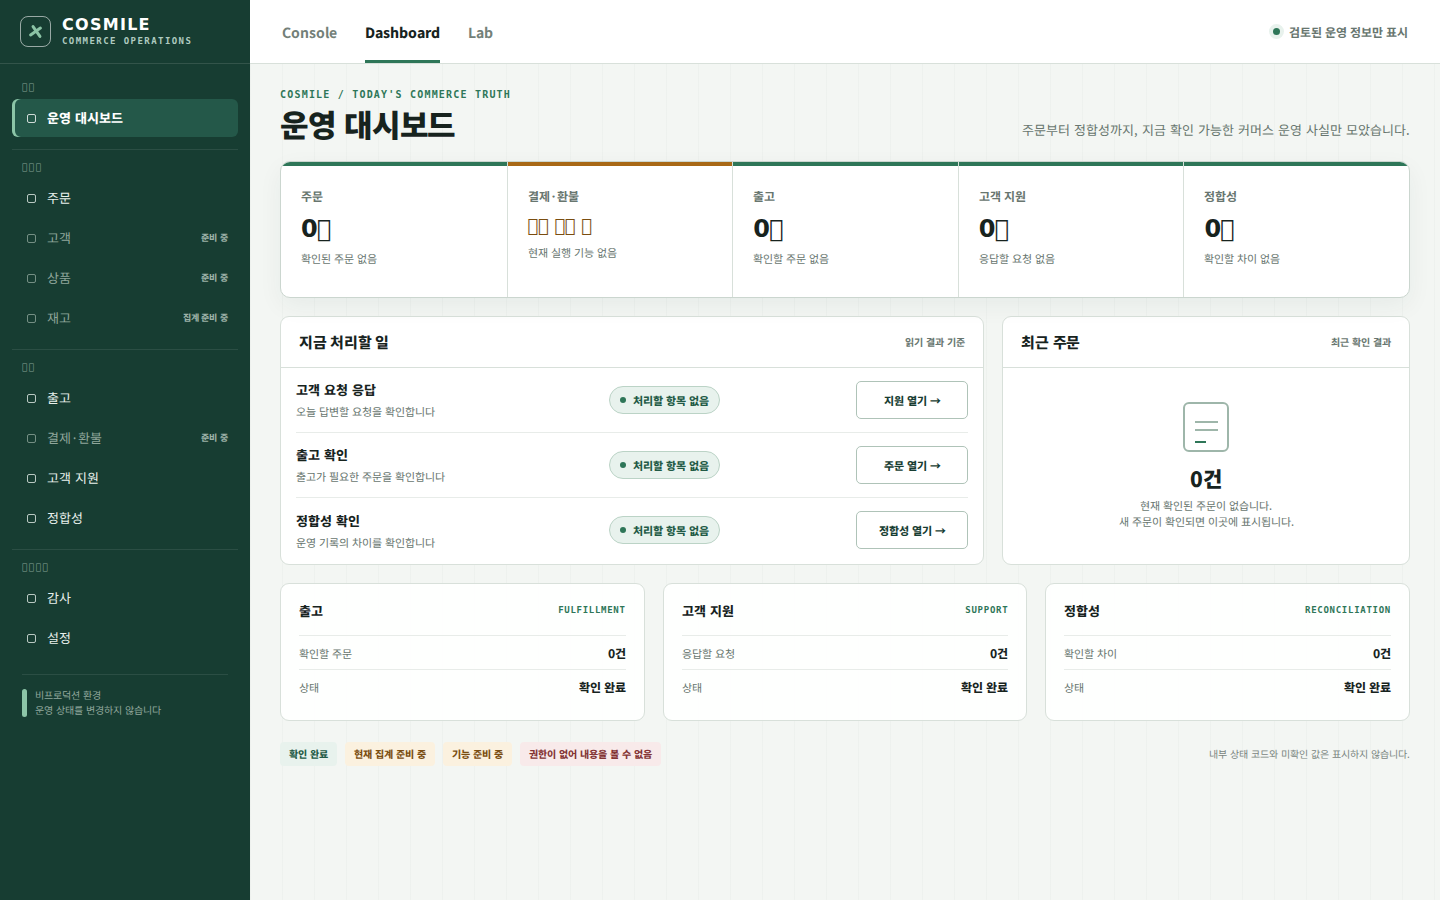
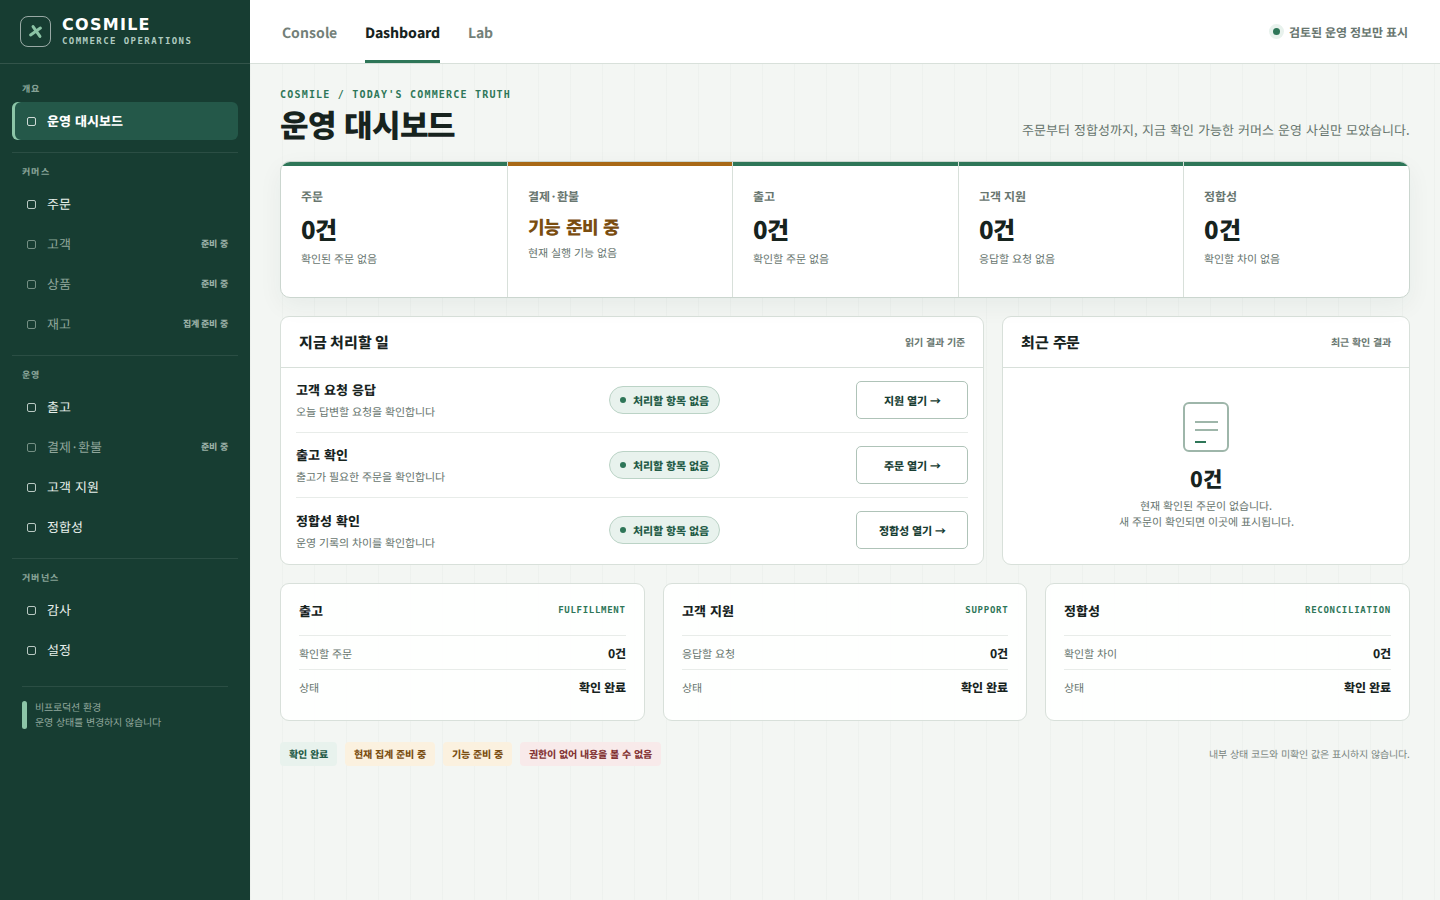
docs(cosmile): fix Korean glyphs in dashboard visual

diff --git a/advisor/jobs/COSMILE_CORE_OPERATIONS_DASHBOARD_V1/108_DESIGNER_DASHBOARD_VISUAL_CANDIDATE.html b/advisor/jobs/COSMILE_CORE_OPERATIONS_DASHBOARD_V1/108_DESIGNER_DASHBOARD_VISUAL_CANDIDATE.html
@@ -1,5 +1,5 @@
 <!doctype html>
-<html lang="ko">
+<html lang="ko" class="fonts-loading">
 <head>
   <meta charset="utf-8">
   <meta name="viewport" content="width=device-width, initial-scale=1">
@@ -38,8 +38,16 @@
       overflow: hidden;
       color: var(--ink);
       background: var(--canvas);
-      font-family: "Pretendard", "Noto Sans KR", "Apple SD Gothic Neo", system-ui, sans-serif;
+      font-family: "Noto Sans KR", "Pretendard", "Apple SD Gothic Neo", system-ui, sans-serif;
       -webkit-font-smoothing: antialiased;
+    }
+
+    html.fonts-loading body {
+      visibility: hidden;
+    }
+
+    html.fonts-ready body {
+      visibility: visible;
     }
 
     body {
@@ -218,7 +226,7 @@
     .nav-group-title {
       margin: 0 10px 7px;
       color: #86A296;
-      font-family: ui-monospace, "SFMono-Regular", monospace;
+      font-family: "Noto Sans KR", "Pretendard", sans-serif;
       font-size: 9px;
       font-weight: 800;
       letter-spacing: 0.16em;
@@ -334,7 +342,7 @@
 
     h1 {
       margin: 0;
-      font-family: "Arial Narrow", "Pretendard", "Noto Sans KR", sans-serif;
+      font-family: "Noto Sans KR", "Pretendard", sans-serif;
       font-size: 31px;
       font-stretch: condensed;
       font-weight: 850;
@@ -393,7 +401,7 @@
     .truth-value {
       margin: 0;
       color: var(--ink);
-      font-family: "Arial Narrow", "Pretendard", sans-serif;
+      font-family: "Noto Sans KR", "Pretendard", sans-serif;
       font-size: 24px;
       font-weight: 850;
       letter-spacing: -0.03em;
@@ -626,6 +634,7 @@
 
     .summary-value {
       color: var(--ink);
+      font-family: "Noto Sans KR", "Pretendard", sans-serif;
       font-size: 12px;
       font-weight: 800;
     }
@@ -882,5 +891,10 @@
       <span class="truth-footer-note">내부 상태 코드와 미확인 값은 표시하지 않습니다.</span>
     </footer>
   </main>
+  <script>
+    document.fonts.ready.then(function () {
+      document.documentElement.classList.replace("fonts-loading", "fonts-ready");
+    });
+  </script>
 </body>
 </html>
